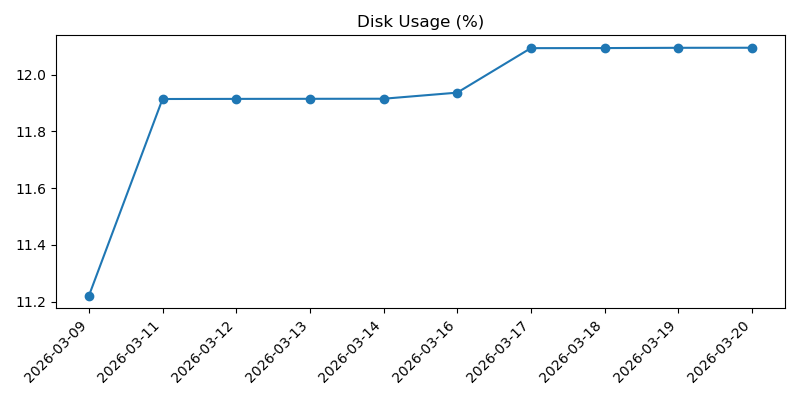
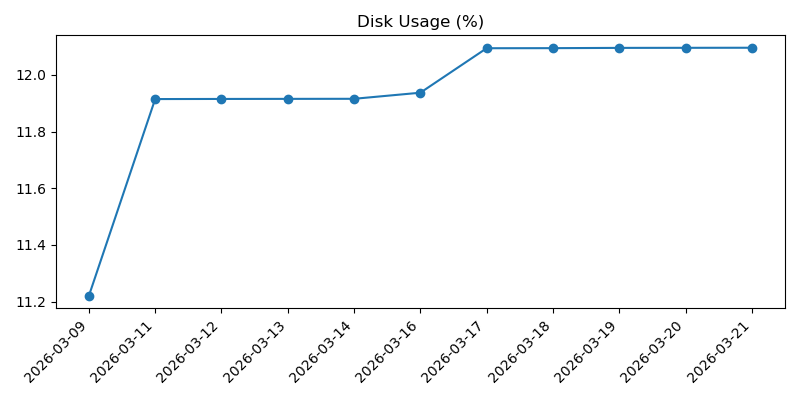
Record daily machine check

diff --git a/2026-03.md b/2026-03.md
@@ -339,3 +339,37 @@
 - Overall: Good
 - Warning: None
 
+## 2026-03-21 09:20:41
+
+### Machine
+- Uptime: up 1 week, 4 days, 15 hours, 41 minutes
+- CPU load (1m, 5m, 15m): 0.00, 0.00, 0.00
+- RAM used: 189 MB / 921 MB (20.5%)
+- Disk used (/): 3.5 GB / 28.8 GB (12.1%)
+- Free disk space (/): 24.1 GB
+- CPU temp: 37.6°C
+- Voltage / throttling: OK
+
+### Reachability
+- Internet check (1.1.1.1): Reachable (3.3 ms)
+
+### Weather
+- Madrid:
+  - Condition: Cubierto con lluvia escasa
+  - Max temp: 11°C
+  - Min temp: 6°C
+  - Feels like: 10°C
+  - Chance of rain: 75%
+  - Warnings: None reported
+- Barcelona:
+  - Condition: Poco nuboso
+  - Max temp: 17°C
+  - Min temp: 7°C
+  - Feels like: 10°C
+  - Chance of rain: 0%
+  - Warnings: None reported
+
+### Health
+- Overall: Good
+- Warning: None
+
